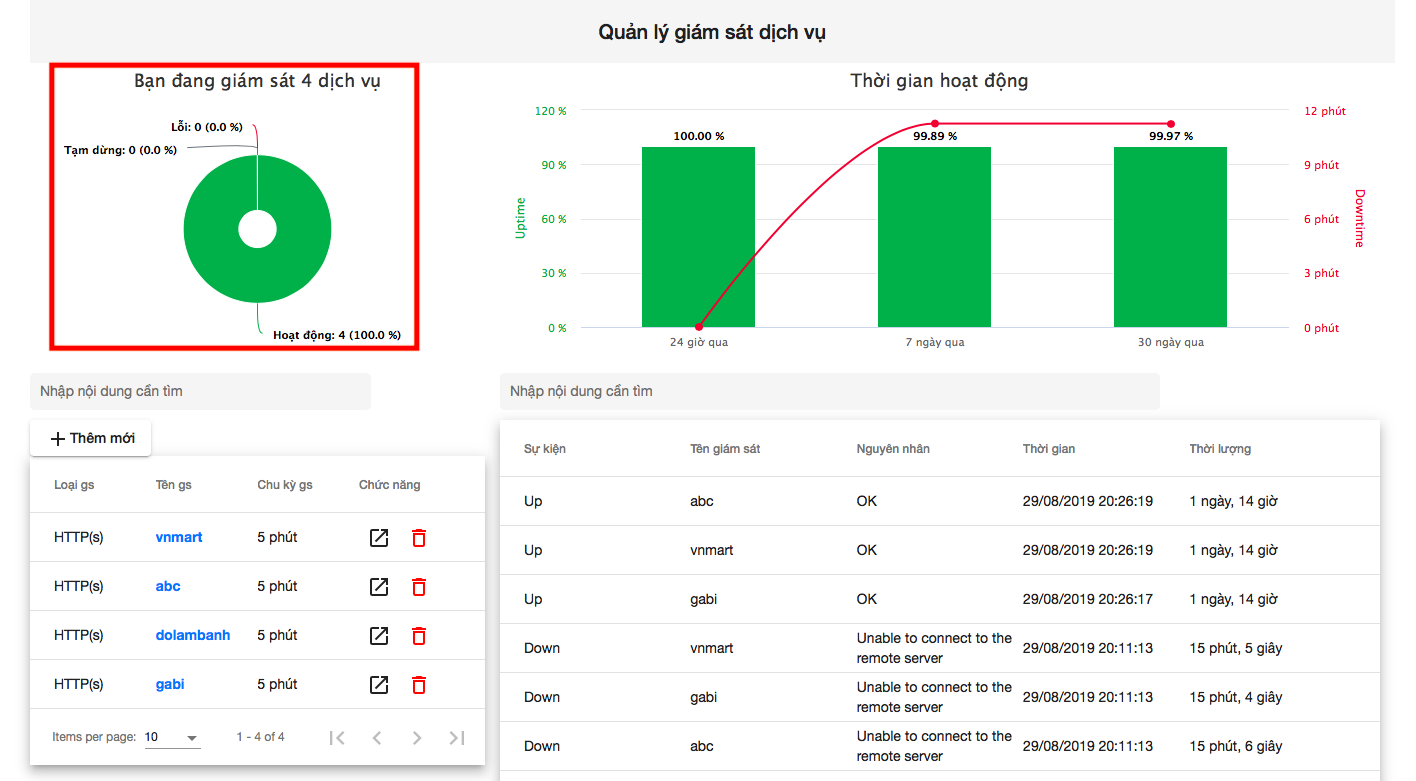
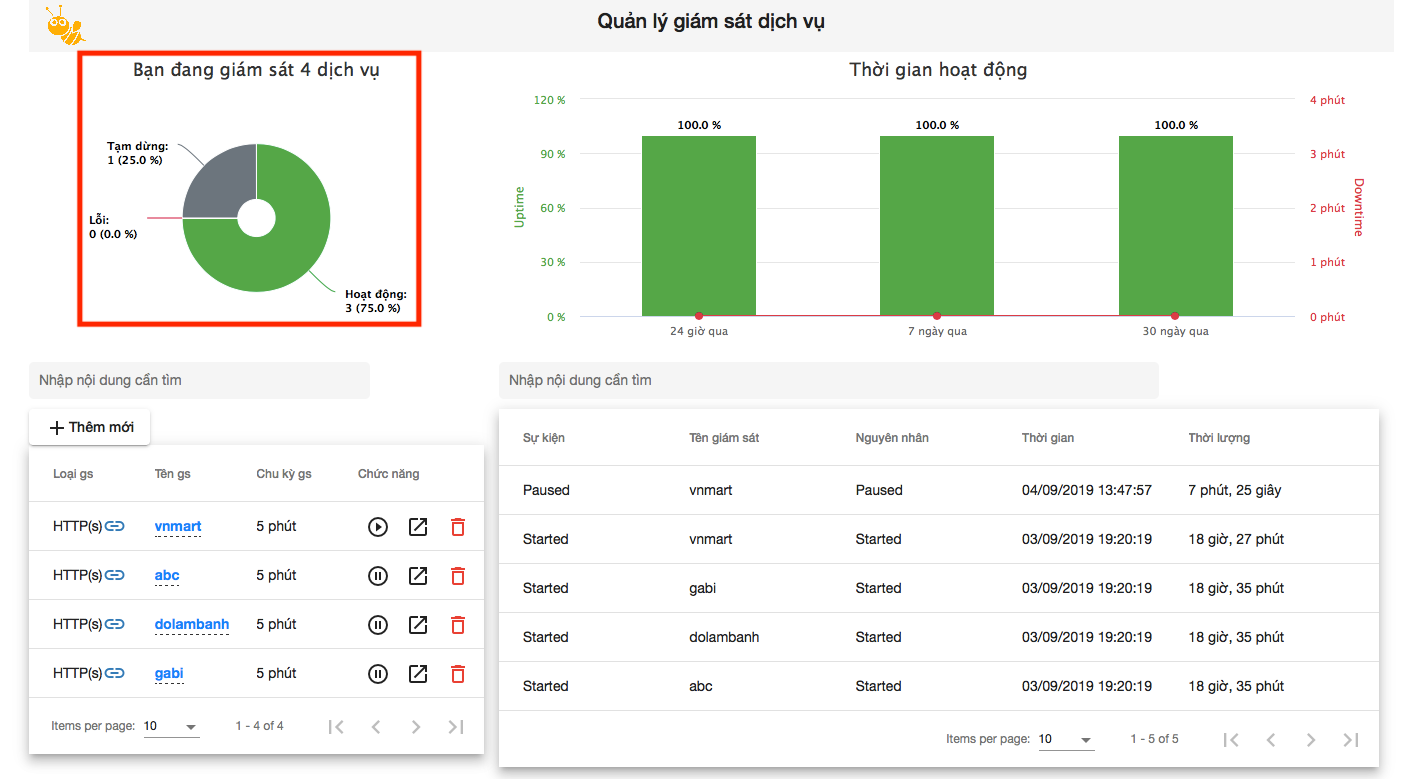
update post

diff --git a/_posts/2019-08-29-hd-thiet-lap-ban-dau.md b/_posts/2019-08-29-hd-thiet-lap-ban-dau.md
@@ -19,7 +19,7 @@ image: assets/images/THIETLAP.png
 **Bước 3:** Bạn lựa chọn loại giám sát theo nhu cầu
 
 ![walking]({{ site.baseurl }}/assets/images/thietlap3.png){: .center-image }
-**Bước4:** Sau đó chọn phương thức nhận cảnh báo phù hợp
+**Bước 4:** Sau đó chọn phương thức nhận cảnh báo phù hợp
 
 ![walking]({{ site.baseurl }}/assets/images/cauhinh1.png){: .center-image }
 **Bước 5:** Sau khi điền đầy đủ thông tin, bạn bấm **Lưu lại** để hoàn thành cấu hình website cần giám sát.
@@ -37,7 +37,7 @@ Giới thiệu giao diện tổng quan hệ thống giám sát Messbee.
 
 ![walking]({{ site.baseurl }}/assets/images/tongquan2.png){: .center-image }
 
-- Khối thông tin bên dưới cung cấp chi tiết thông tin của các dịch vụ đang được giám sát: **Loại giám sát, tên giám sát, chu kỳ chạy**,...
+- Khối thông tin bên dưới cung cấp chi tiết thông tin của các dịch vụ đang được giám sát: **Loại giám sát, tên giám sát, chu kỳ chạy, tạm dừng giám sát, chỉnh sửa thông tin giám sát**,...
 
 ![walking]({{ site.baseurl }}/assets/images/tongquan3.png){: .center-image }
 
